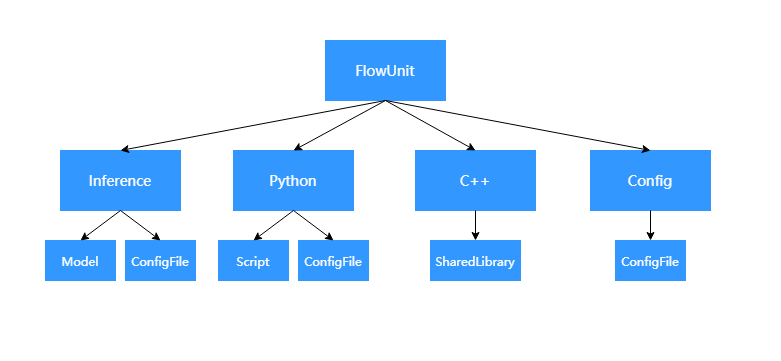
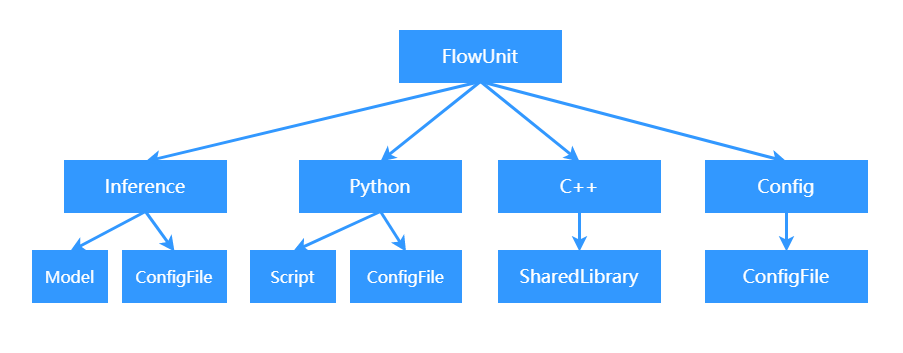
update high resolution image

Changed region(s): [[0.0307, 0.0623, 0.9834, 0.8725], [0.3995, 0.3428, 0.4302, 0.3739]]

diff --git a/other-features/exception.md b/other-features/exception.md
@@ -14,26 +14,26 @@
 
 1. 对于单个Buffer输出错误时，调用Buffer::SetError接口，设置错误的详细信息，错误即可发出。
 
-```cpp
-Status Flowunit::Process(std::shared_ptr<DataContext> data_ctx) {
-   auto outputs = data_ctx->Output("out1");
-   outputs->Build({1});
-   auto buffer1 = outputs->At(0);
-   buffer1->SetError("Custom.Downloader.NoSuchFile", "File xxxx is not exist");
-   return STATUS_OK;
-}
-```
+   ```cpp
+   Status Flowunit::Process(std::shared_ptr<DataContext> data_ctx) {
+      auto outputs = data_ctx->Output("out1");
+      outputs->Build({1});
+      auto buffer1 = outputs->At(0);
+      buffer1->SetError("Custom.Downloader.NoSuchFile", "File xxxx is not exist");
+      return STATUS_OK;
+   }
+   ```
 
 1. 对于多个Buffer同时设置错误时，调用BufferList::SetError接口，设置错误的详细信息，错误即可发出。
 
-```cpp
-Status Flowunit::Process(std::shared_ptr<DataContext> data_ctx) {
-   auto outputs = data_ctx->Output("out1");
-   outputs->Build({1, 1});
-   outputs->SetError("Custom.Crop.OutOfBound", "Crop area width xxx is great than image width xxx");
-   return STATUS_OK;
-}
-```
+   ```cpp
+   Status Flowunit::Process(std::shared_ptr<DataContext> data_ctx) {
+      auto outputs = data_ctx->Output("out1");
+      outputs->Build({1, 1});
+      outputs->SetError("Custom.Crop.OutOfBound", "Crop area width xxx is great than image width xxx");
+      return STATUS_OK;
+   }
+   ```
 
 ## 异常的传递
 
@@ -45,56 +45,56 @@ Status Flowunit::Process(std::shared_ptr<DataContext> data_ctx) {
 
 1. 明确的声明当前功能单元支持异常处理
 
-cpp功能单元在实现中开启
+   cpp功能单元在实现中开启
 
-```cpp
-MODELBOX_FLOWUNIT(ExampleFlowUnit, desc) {
-   desc.SetExceptionVisible(true);
-}
-```
+   ```cpp
+   MODELBOX_FLOWUNIT(ExampleFlowUnit, desc) {
+      desc.SetExceptionVisible(true);
+   }
+   ```
 
-python功能单元在功能单元配置文件中开启
+   python功能单元在功能单元配置文件中开启
 
-```toml
-exception_visible = true
-```
+   ```toml
+   exception_visible = true
+   ```
 
 1. 编排节点时，在节点配置上设置需要异常处理
 
-```graphviz
-get_exception[..., is_exception_visible=true]
-```
+   ```graphviz
+   get_exception[..., is_exception_visible=true]
+   ```
 
 1. 获取异常
 
-cpp功能单元中获取
+   cpp功能单元中获取
 
-```cpp
-Status GetException::Process(std::shared_ptr<DataContext> data_ctx) {
-   auto inputs = data_ctx->Input("in1");
-   for (auto buffer : inputs) {
-      if (buffer->HasError()) {
-         MBLOG_ERROR << "error is " << buffer->GetErrorCode() << ", " << buffer->GetErrorMsg();
+   ```cpp
+   Status GetException::Process(std::shared_ptr<DataContext> data_ctx) {
+      auto inputs = data_ctx->Input("in1");
+      for (auto buffer : inputs) {
+         if (buffer->HasError()) {
+            MBLOG_ERROR << "error is " << buffer->GetErrorCode() << ", " << buffer->GetErrorMsg();
+         }
       }
    }
-}
-```
+   ```
 
-python功能单元中获取
+   python功能单元中获取
 
-```python
-def process(self, data_ctx):
-   inputs = data_ctx.input("in1")
-   for input in inputs:
-      if buffer.has_error():
-         print("error is " + buffer.get_error_code() + ", " + buffer.get_error_msg())
-```
+   ```python
+   def process(self, data_ctx):
+      inputs = data_ctx.input("in1")
+      for input in inputs:
+         if buffer.has_error():
+            print("error is " + buffer.get_error_code() + ", " + buffer.get_error_msg())
+   ```
 
 ## 异常捕获中的可见性说明
 
 之前数据流中提到，expand和condition会使得数据流的层级标记下降一次，这个层级不仅影响了匹配，也作用于异常的捕获。核心点是，高层级的错误，低层不可见；低层级的错误，高层可见。
 
-![exception_capture alt rect_w_400](../../assets/images/figure/conception-feature/features/exception_capture.png)
+![exception_capture alt rect_w_400](../assets/images/figure/conception-feature/features/exception_capture.png)
 
 上图中，异常可见情况如下：
 

diff --git a/use-modelbox/develop-mode.md b/use-modelbox/develop-mode.md
@@ -4,7 +4,7 @@
 
 ModelBox的开发视图如下，图中绿色的部分是开发者可以自定义扩展的部分。
 
-![sdk alt rect_w_800](../../assets/images/figure/develop/sdk.png)
+![sdk alt rect_w_800](../assets/images/figure/develop/sdk.png)
 
 ModelBox开发套件包含如下部分：
 
@@ -62,22 +62,23 @@ ModelBox开发套件包含如下部分：
 
 1. 标准模式
 
+    如下图所示，标准模式应用的组成部分。
+
     ![modelbox-app-mode1 alt rect_w_400](../assets/images/figure/get-start/app_develop_mode1.png)
 
-    如上图所示，此模式下AI应用被设计为两个部分：ModelBox部分和应用部分。
-    * ModelBox部分：这种模式下AI应用的主入口由ModelBox管理，启动时，首先进入ModelBox部分，会读取ModelBox配置，加载配置中选择的插件列表，初始化并启动所有的插件，至此完成ModelBox部分的主要工作。插件在ModelBox部分起着重要的作用，被设计来完成应用部分的管理工作。ModelBox内置了两个插件：ModelBox插件，用于加载流程图来启动应用部分，具体请见[ModelBox插件](../plugins/modelbox-plugin.md); Editor插件，用于开发时可视化管理应用部分的工作，如执行样例应用、可视化编排流程图等，具体请见[Editor插件](../plugins/editor.md)。
+    这种模式下AI应用的主入口由ModelBox管理，启动时，ModelBox会读取ModelBox配置，加载配置中选择的插件列表，初始化并启动所有的插件。插件在ModelBox部分起着重要的作用，被设计来完成应用部分的管理工作。ModelBox内置了两个插件：ModelBox插件，用于加载流程图来启动应用部分，具体请见[ModelBox插件](../plugins/modelbox-plugin.md); Editor插件，用于开发时可视化管理应用部分的工作，如执行样例应用、可视化编排流程图等，具体请见[Editor插件](../plugins/editor.md)。
 
-    * 应用部分：此部分是应用的全部逻辑承载，开发者首先通过流程图配置文件描述整个应用的数据处理过程，然后实现流程图中缺少的功能单元，完成整个应用。
+    应用的全部逻辑承载编排在流程图配置文件中，开发者首先通过流程图配置文件描述整个应用的数据处理过程，然后实现流程图中缺少的功能单元，完成整个应用。
 
 1. SDK模式
 
-    ![modelbox-app-mode2 alt rect_w_500](../assets/images/figure/get-start/app_develop_mode2.png)
+    如下图所示，SDK模式应用的组成部分。
 
-    如上图所示，此模式下AI应用被设计为两个部分：业务部分和算法部分。
+    ![modelbox-app-mode2 alt rect_w_400](../assets/images/figure/get-start/app_develop_mode2.png)
 
-    * 业务部分：在这个模式下，取代了ModelBox部分，作为AI应用的主入口，启动后，由业务部分通过ModelBox提供的API管理算法部分的初始化、启动及调用。
+    这种模式下，开发者控制AI应用的主入口。启动后，由流程图调用部分通过ModelBox SDK提供的API管理流程图的初始化、启动及数据交互。
 
-    * 算法部分：算法相关的执行逻辑。此部分中，开发者可以通过API静态的编排逻辑、使用已有的流程图配置文件、或者通过solution使用预置的逻辑，逻辑加载后会生成Flow对象，可以通过对象提供的数据输入输出接口完成对算法的调用，Flow可以存在多个，即可以加载多个算法逻辑。
+    流程图调用部分中，开发者可以通过API进行流程逻辑编排、加载已有的流程图配置文件、或者通过solution使用预置的逻辑等方式构建流程图，流程图构建由Flow对象完成，可以通过Flow对象提供的数据输入输出接口完成对算法的调用，Flow可以存在多个，即可以加载多个流程图逻辑。
 
 ## 应用模式选择
 

diff --git a/basic-conception/stream.md b/basic-conception/stream.md
@@ -10,7 +10,7 @@
 
 ## stream构成
 
-![stream alt rect_w_1280](../../assets/images/figure/conception-feature/conception/stream_construct.png)
+![stream alt rect_w_800](../assets/images/figure/conception-feature/conception/stream_construct.png)
 
 Stream由数据部分和元信息部分构成，数据部分由多个有序的Buffer承载，元信息则记录在数据流上，数据流的产生功能单元在第一个数据产生前可以写入流的元信息，数据流处理功能单元只能读取数据流的元信息。
 
@@ -20,35 +20,35 @@ Stream由数据部分和元信息部分构成，数据部分由多个有序的Bu
 
 ### 数据流匹配
 
-![why_need_match alt rect_w_1280](../../assets/images/figure/conception-feature/conception/stream_match.png)
+![why_need_match alt rect_w_800](../assets/images/figure/conception-feature/conception/stream_match.png)
 
 上图介绍了一种典型的数据流匹配场景，Image Source功能单元功能是产生图片，Inference功能单元的功能是输入图片输出图片中包含人的框，DrawBox功能单元的功能是接受一个输入图像，和输入检测框，输出一个绘制了检测框的图像。对DrawBox来说图像和检测框结果之间就存在匹配关系，两个数据流均来自ImageSource，且两个数据流中的Buffer数量一致，则可以正确完成匹配的过程。
 
 ### 数据流经过Normal功能单元
 
-![normal-process alt rect_w_1280](../../assets/images/figure/conception-feature/conception/stream_normal_process.png)
+![normal-process alt rect_w_800](../assets/images/figure/conception-feature/conception/stream_normal_process.png)
 
 两个数据流进入节点处理，功能单元的batch设置为2，可以看到数据被划分为最多两个一组，多组数据同时开始处理，生成的结果数据与输入一致，并且整理成独立的输出流输出。
 
 #### 数据流经过Stream功能单元
 
-![normal-process alt rect_w_1280](../../assets/images/figure/conception-feature/conception/stream_stream_process.png)
+![normal-process alt rect_w_800](../assets/images/figure/conception-feature/conception/stream_stream_process.png)
 
 两个数据流进入节点处理，功能单元的batch设置为2，可以看到数据被划分为最多两个一组，不同的数据流同时处理，同一个数据流的多组batch串行处理，生成的结果数据与输入数量可以不一致。
 
 #### 数据流经过Condition功能单元
 
-![normal-process alt rect_w_1280](../../assets/images/figure/conception-feature/conception/stream_condition_process.png)
+![normal-process alt rect_w_800](../assets/images/figure/conception-feature/conception/stream_condition_process.png)
 
 单个数据流进入节点处理，功能单元一次处理一个buffer，多个buffer同时处理，每个输出buffer选择一个端口，输出的总量与单端口输入的数量一致。
 
 #### 数据流经过Expand功能单元
 
-![normal-process alt rect_w_1280](../../assets/images/figure/conception-feature/conception/stream_expand_process.png)
+![normal-process alt rect_w_800](../assets/images/figure/conception-feature/conception/stream_expand_process.png)
 
 单个数据流进入节点处理，功能单元一次处理一个buffer，多个buffer同时处理，每个Buffer展开成一个子数据流。
 
 ### 数据流经过Collapse功能单元
 
-![normal-process alt rect_w_1280](../../assets/images/figure/conception-feature/conception/stream_collapse_process.png)
+![normal-process alt rect_w_800](../assets/images/figure/conception-feature/conception/stream_collapse_process.png)
 多个子数据流进入节点处理，功能单元一次处理一个子流，多个子流的数据同时处理，每个子流只能合并输出一个Buffer。

diff --git a/basic-conception/flowunit.md b/basic-conception/flowunit.md
@@ -14,7 +14,7 @@
 
 在ModelBox中，功能单元支持不同的实现方式以适用于不同场景的使用。
 
-![flowunit-component alt rect_w_1280](../../assets/images/figure/conception-feature/conception/flowunit_impl.png)
+![flowunit-component alt rect_w_600](../assets/images/figure/conception-feature/conception/flowunit_impl.png)
 
 | 实现方式    | 说明                                              |
 | ---------- | ----------------------------------------          |
@@ -29,7 +29,7 @@
 
 为方便功能单元的扩展和复用，它被设计为插件的方式进行加载，如下简要介绍其加载的过程。
 
-![flowunit-process alt rect_w_1280](../../assets/images/figure/framework-conception/flowunit-process.png)
+![flowunit-process alt rect_w_1280](../assets/images/figure/framework-conception/flowunit-process.png)
 
 FlowUnit插件的加载流程如上图：
 
@@ -116,13 +116,13 @@ FlowUnit插件的加载流程如上图：
 
 * **例子**
 
-    ![car-detect](../../assets/images/figure/solution/car-detect.png)
+    ![car-detect](../assets/images/figure/solution/car-detect.png)
 
     车辆跟踪推理DEMO，当发现车辆时，对车辆画框图提示。
 
 * **Flow流程图**
 
-    ![car-detect-flow alt rect_w_600](../../assets/images/figure/framework-conception/car-detect-flow.png)
+    ![car-detect-flow alt rect_w_600](../assets/images/figure/framework-conception/car-detect-flow.png)
 
     流程说明：
     1. 将文件数据发送给VideoDemux，VideoDemux将数据解开packet后发送给VideoDecoder。
